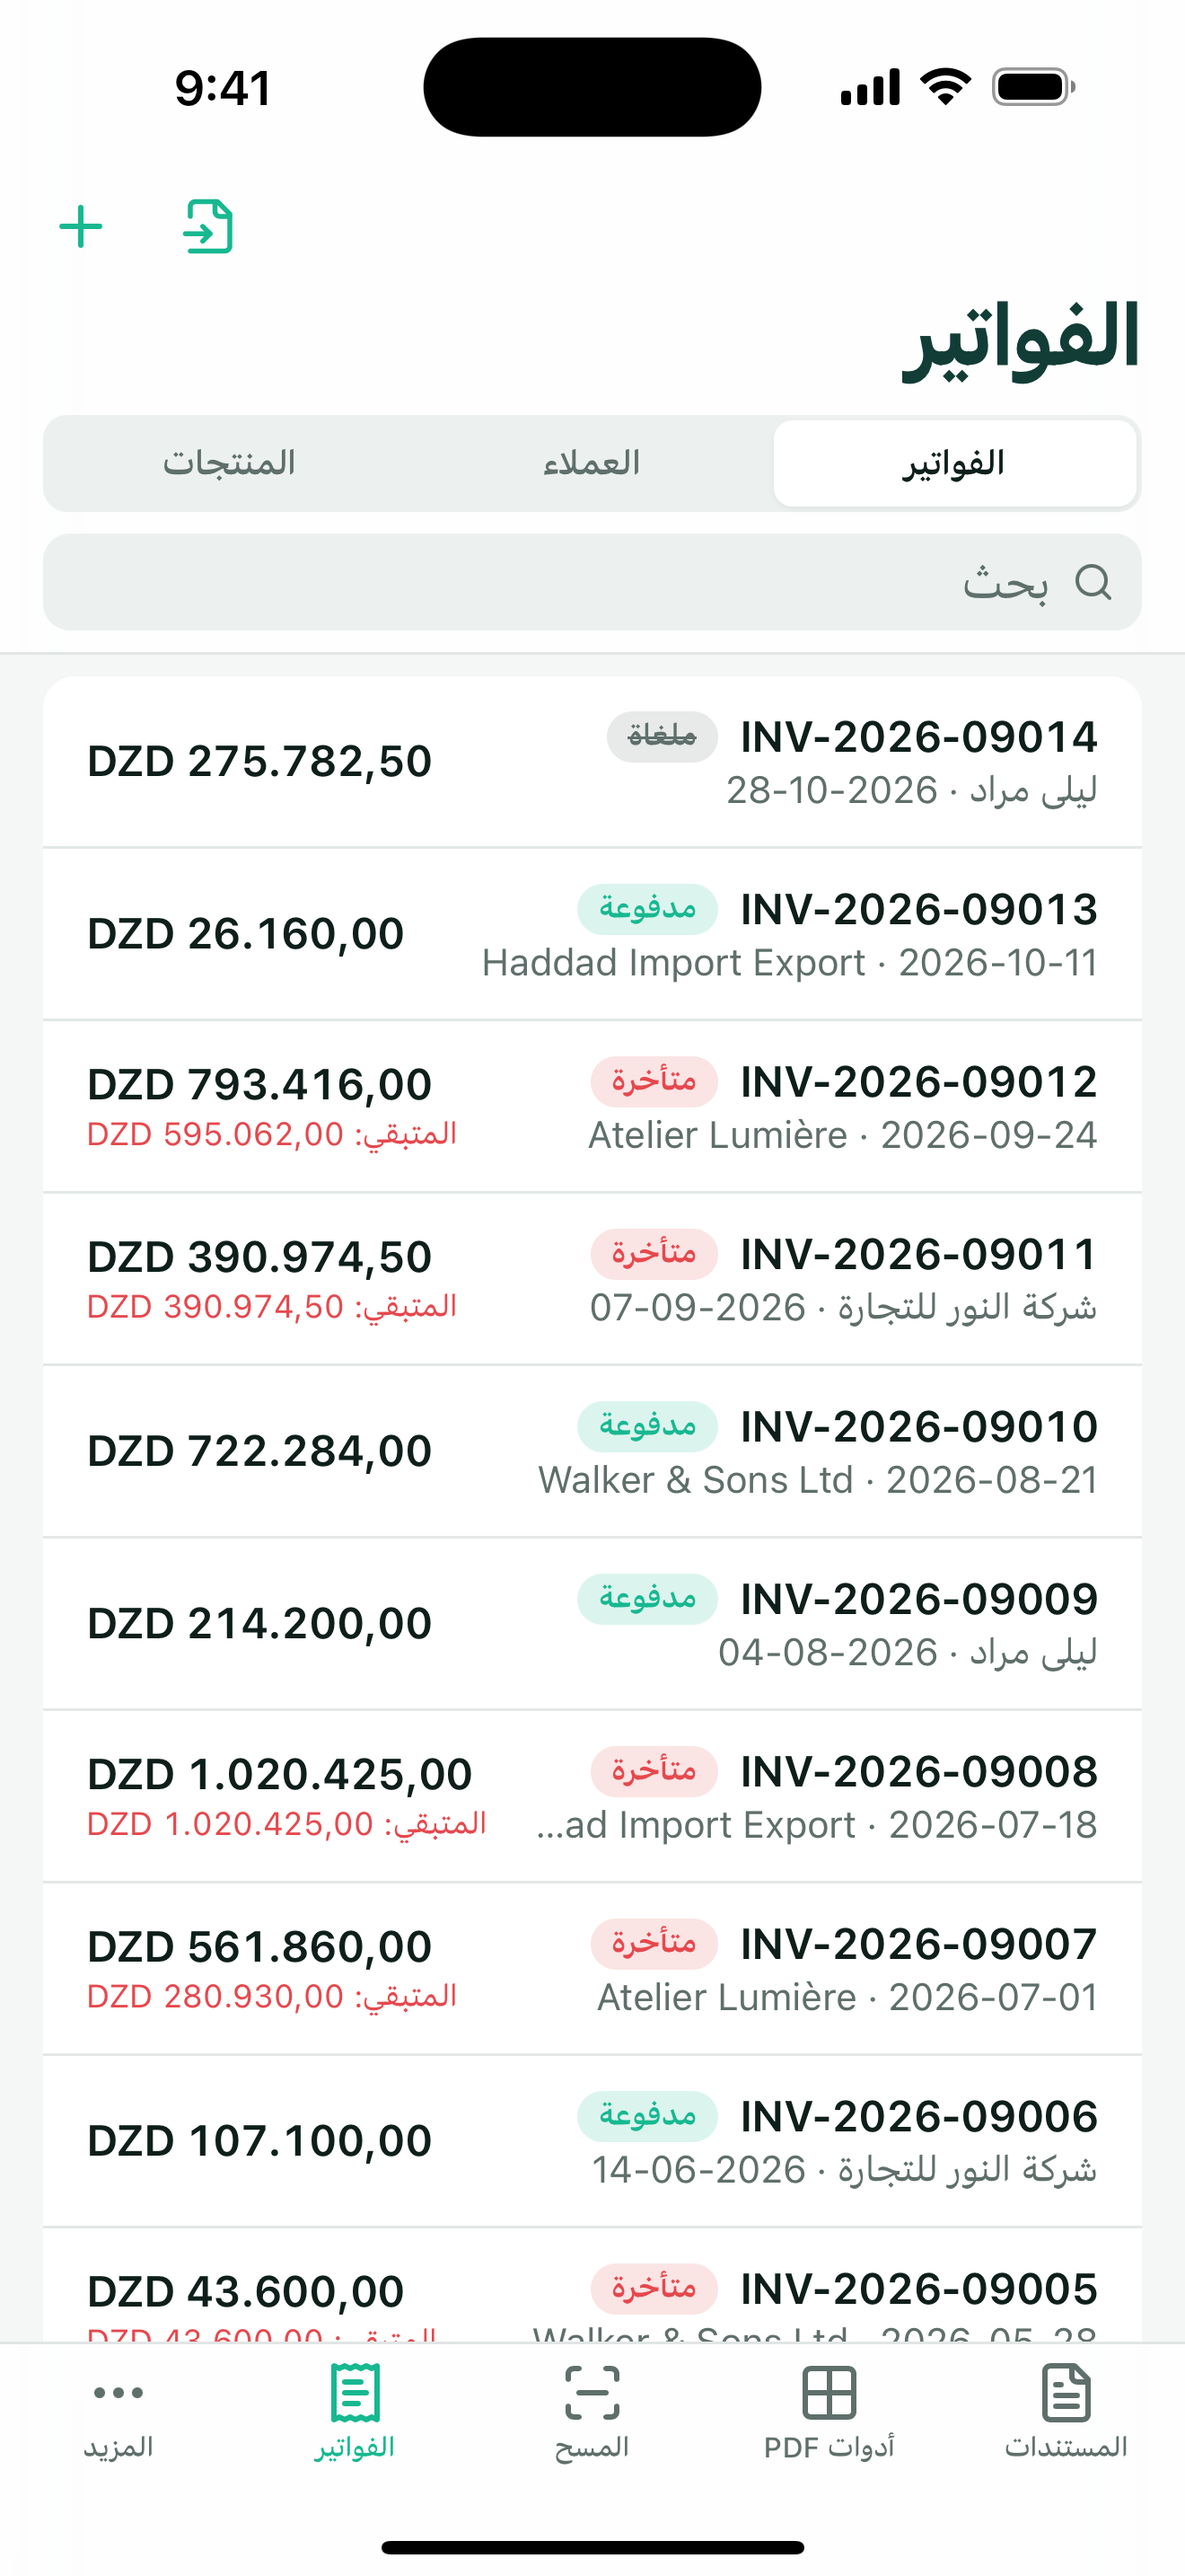
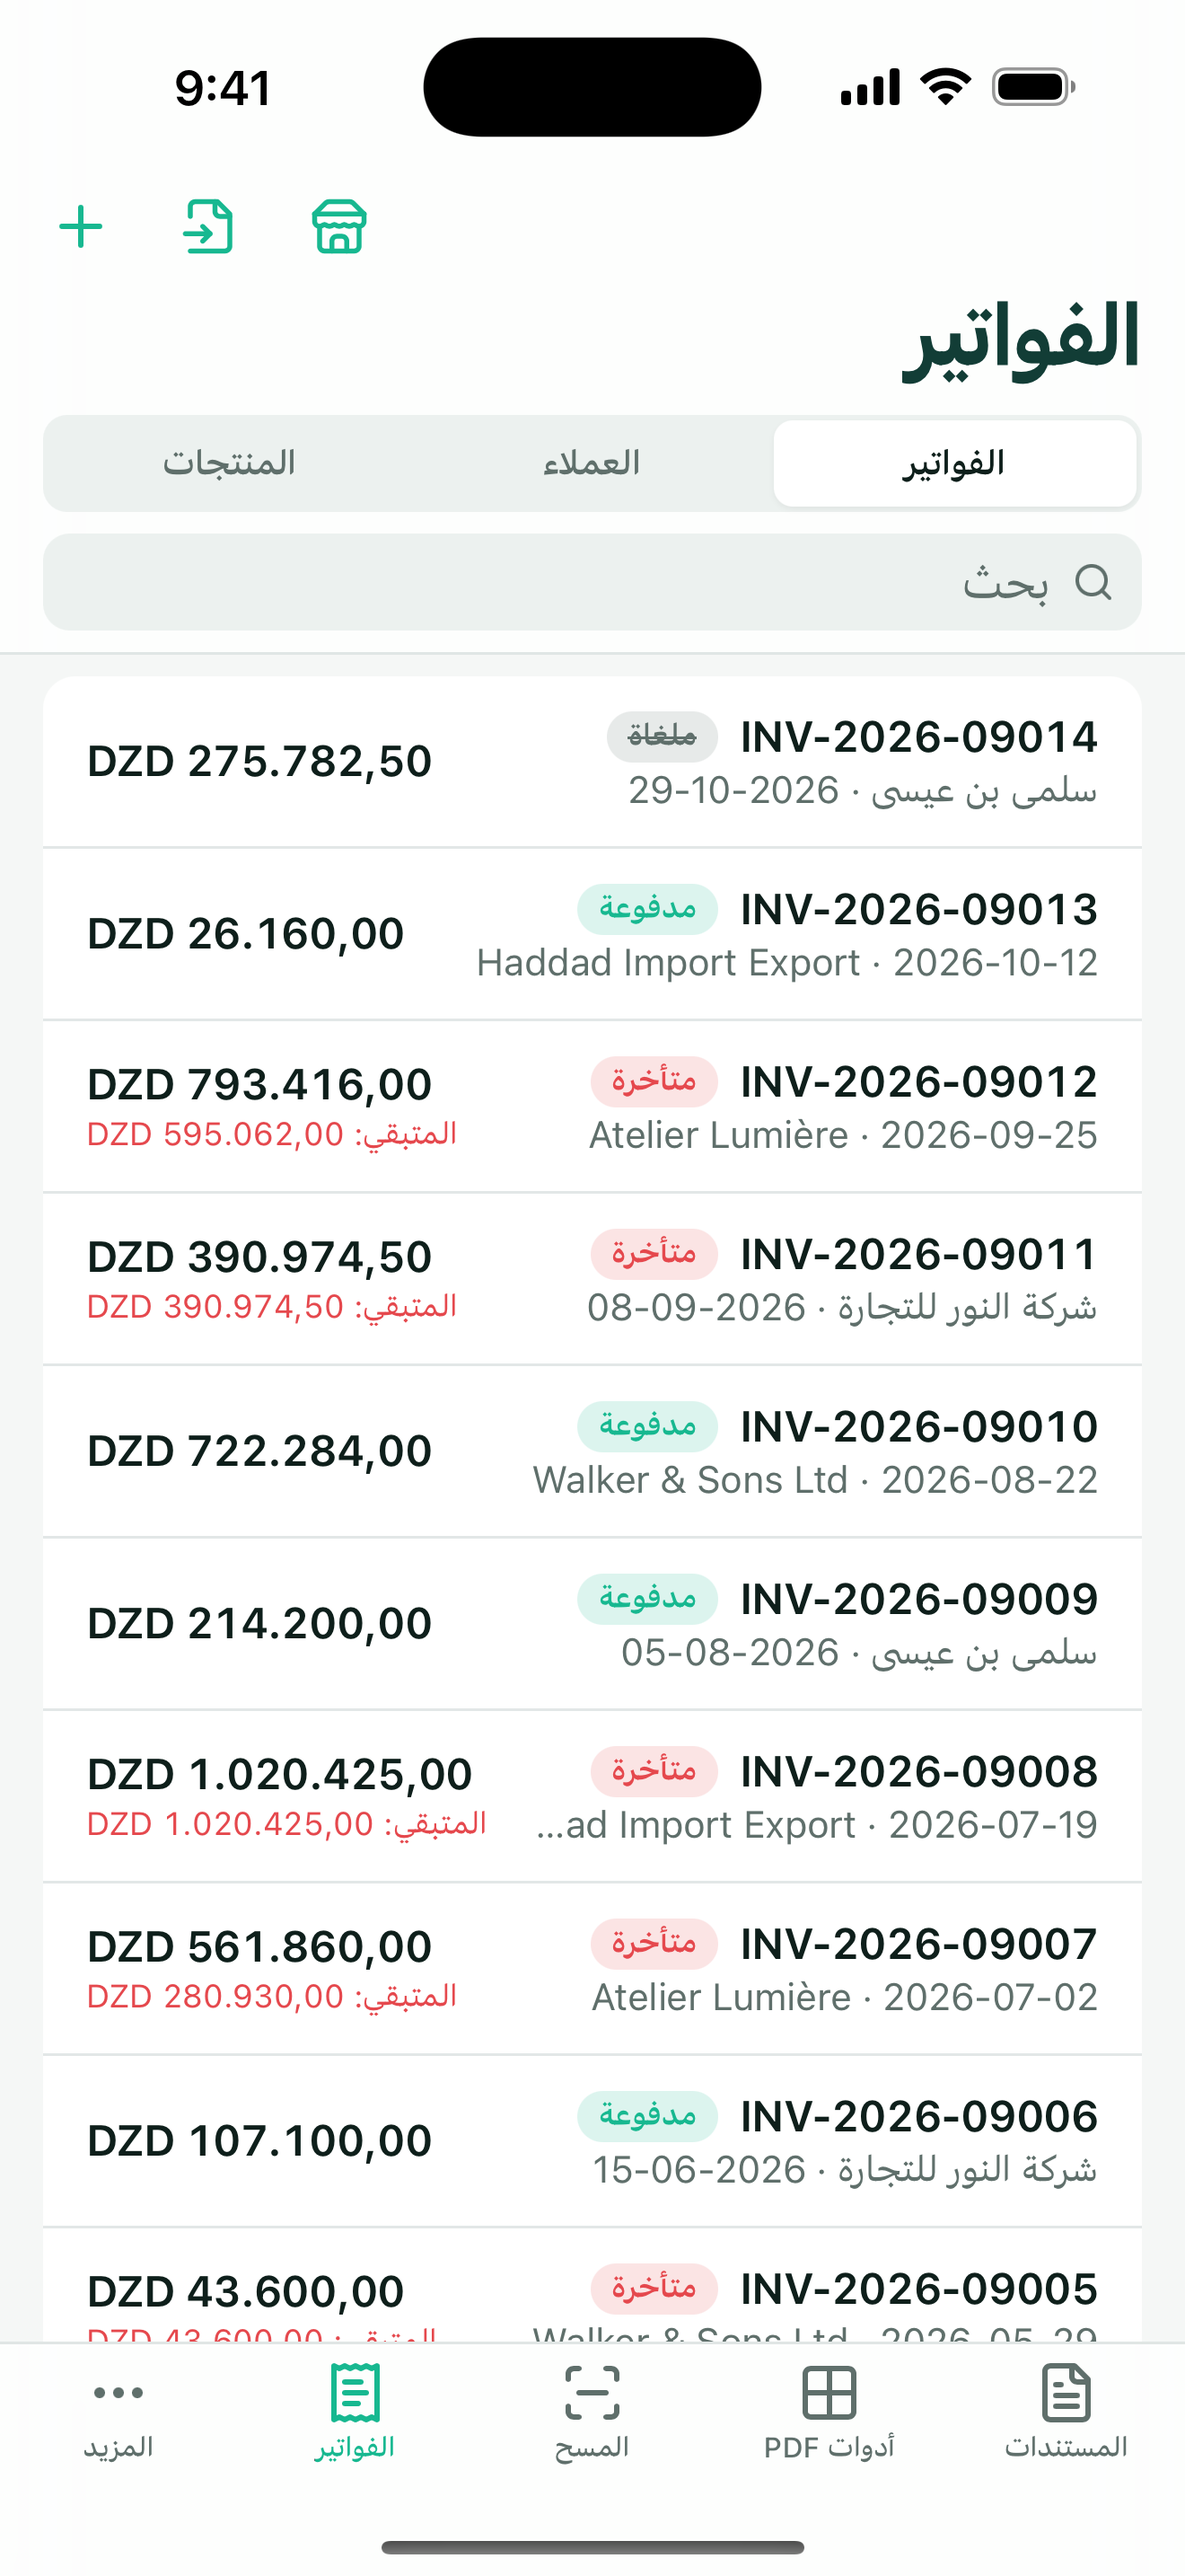
docs(ios): final App Store screenshots — iPhone 6.9" ×9, iPad 13" ×8 [skip ci]
From simulator CI of 6445c81 (StoreKit 7/7): fictional demo names and contacts, paid invoice with a
fictional seller, new 09 Arabic fonts panel (iPhone). Site: images refreshed; paywall image (price not
loaded in the simulator) replaced by the fonts panel.

Claude-Session: https://claude.ai/code/session_01LfDiUxqusgUa7vbRChSDFd

diff --git a/site/nova-docs/index.html b/site/nova-docs/index.html
@@ -65,7 +65,7 @@
 </div></section>
 
 <section style="padding-top:0"><div class="wrap">
-  <div class="shots"><img src="assets/screens/edit.jpg" alt="" /><img src="assets/screens/tools.jpg" alt="" /><img src="assets/screens/scan.jpg" alt="" /><img src="assets/screens/invoice.jpg" alt="" /><img src="assets/screens/pro.jpg" alt="" /></div>
+  <div class="shots"><img src="assets/screens/edit.jpg" alt="" /><img src="assets/screens/tools.jpg" alt="" /><img src="assets/screens/scan.jpg" alt="" /><img src="assets/screens/invoice.jpg" alt="" /><img src="assets/screens/fonts.jpg" alt="" /></div>
   <p class="note"><span data-l="ar">التحرير والأدوات والمسح والفاتورة: لقطات حقيقية من التطبيق على محاكي iOS (iPhone 16 Pro Max). Pro: معاينة الواجهة نفسها.</span><span data-l="fr">Édition, outils, scan et facture : captures réelles de l’app sur le simulateur iOS (iPhone 16 Pro Max). Pro : aperçu de la même interface.</span><span data-l="en">Editing, tools, scan and invoice: real captures of the app on the iOS simulator (iPhone 16 Pro Max). Pro: preview of the same UI.</span></p>
 </div></section>
 
